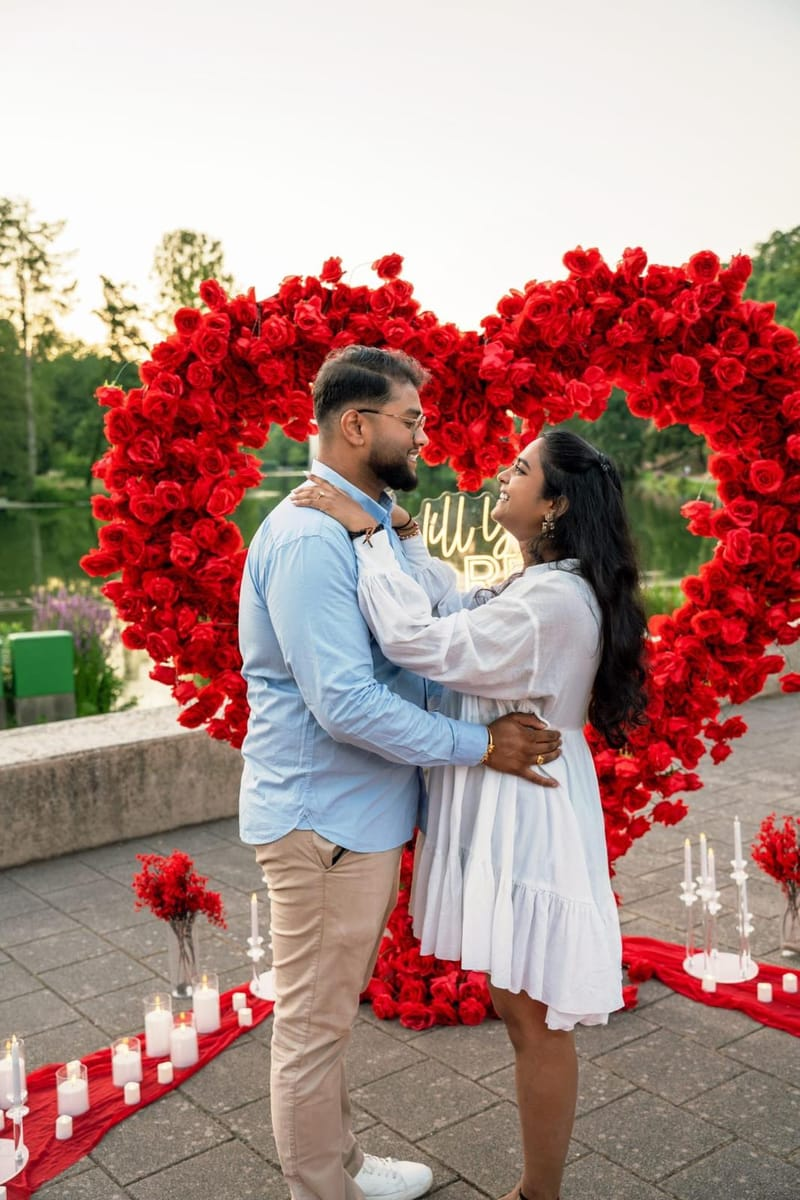
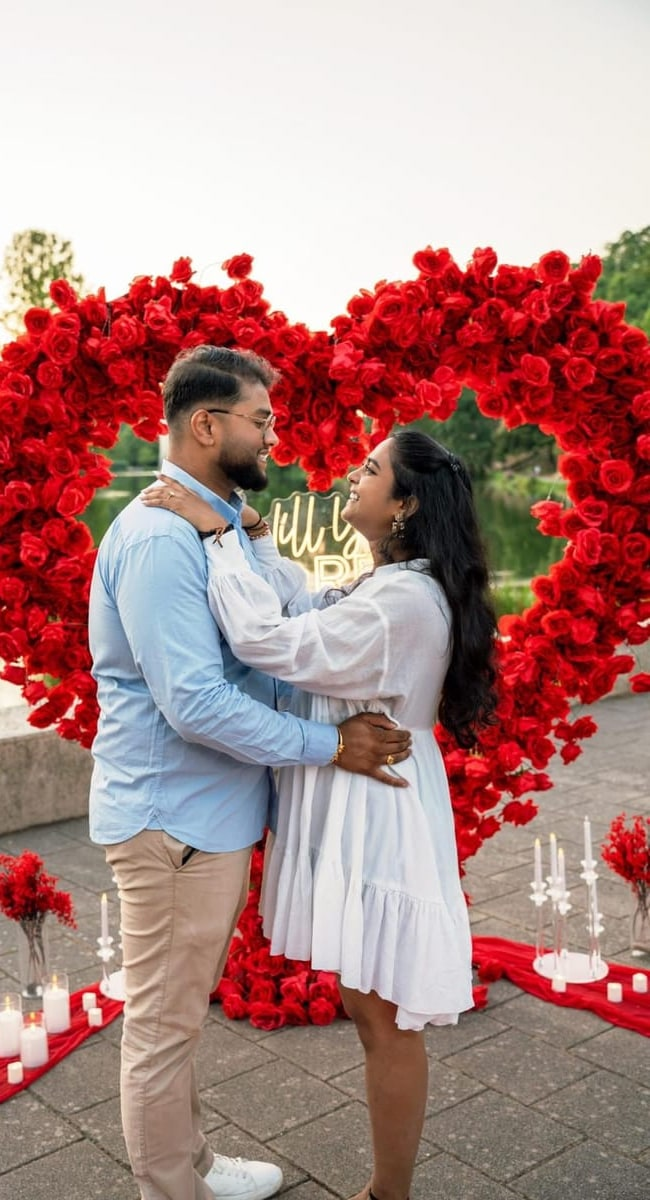
Centre the couple in the hero photo
The couple sat right of the middle of the arch frame. The photo is now
cropped on the left so both people are in the centre of the frame.

diff --git a/src/lib/site-images.ts b/src/lib/site-images.ts
@@ -3,7 +3,7 @@ import { couple } from './site-content'
 // Die Bilder der Startseite liegen als Dateien in public/: zum Tauschen die
 // Datei ersetzen (gleicher Name), im Code ändert sich nichts.
 
-/** Das Paarfoto im Bogenrahmen (hochkant, ca. 800 x 1200 px, unter 200 KB). */
+/** Das Paarfoto im Bogenrahmen (hochkant, ca. 650 x 1200 px, unter 200 KB, das Paar in der Mitte). */
 export const heroPhoto = '/hero/paar.jpg'
 
 /** Vier kleine Fotos auf der Kachel "Unsere Fotos" (quadratisch, 160 x 160 px). */

diff --git a/src/components/sections/Hero.tsx b/src/components/sections/Hero.tsx
@@ -49,8 +49,8 @@ export default function Hero() {
             <img
               src={heroPhoto}
               alt="Saruga und Vinith"
-              width={450}
-              height={800}
+              width={650}
+              height={1200}
               fetchPriority="high"
               className="h-full w-full object-cover object-[50%_32%]"
             />

diff --git a/README.md b/README.md
@@ -170,7 +170,8 @@ Danach `npm run dev` neu starten. `data/fake-r2/` ist ignoriert.
 
 - **Hero:** Foto im Bogenrahmen. Das Bild liegt unter `public/hero/paar.jpg`;
   zum Tauschen die Datei ersetzen (hochkant, am besten ab 900 x 1100 px, unter
-  200 KB).
+  200 KB). Das Paar gehört in die **Mitte** des Bildes: der Rahmen zeigt die Mitte
+  (oben bevorzugt), ein Paar am Rand säße schief im Bogen.
 - **Zustände:** vor dem 17.10. Countdown mit großen Tagen und Kalender-Knopf;
   am 17.10. "Heute ist es so weit" mit Fotos hochladen, Ablauf und Gästebuch;
   ab 18.10., 5 Uhr morgens (die Feier geht über Mitternacht), "Wir sind verheiratet!" mit Danke. Die Grenzen sind feste Zeitpunkte
